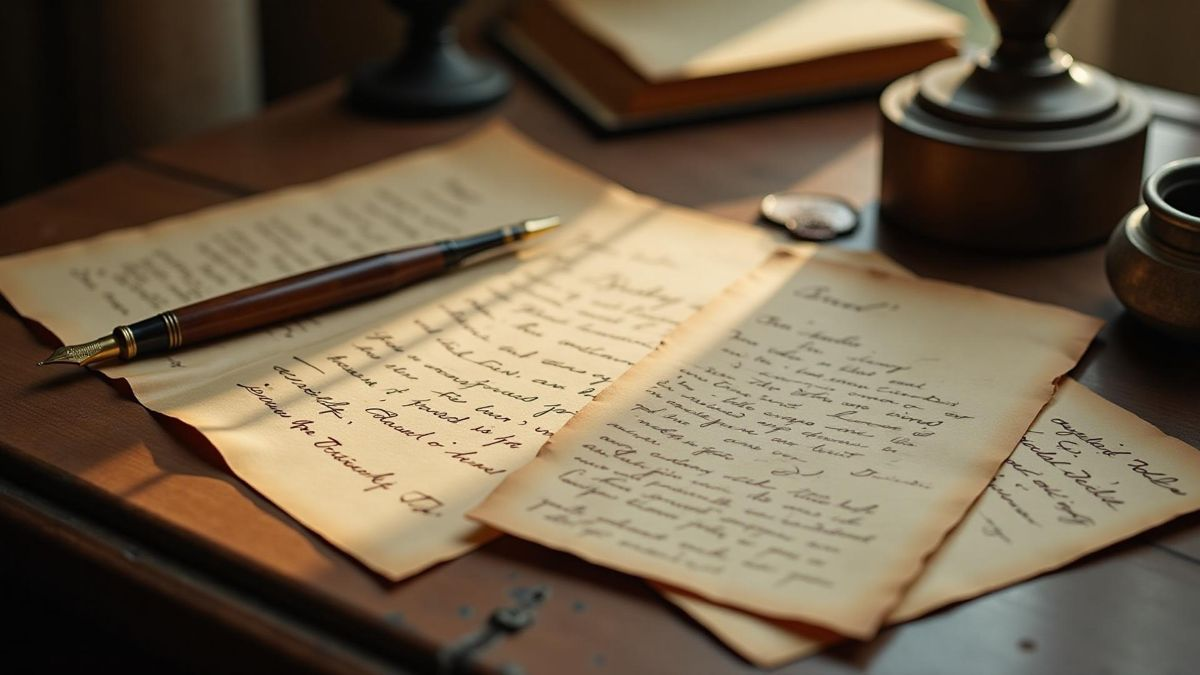
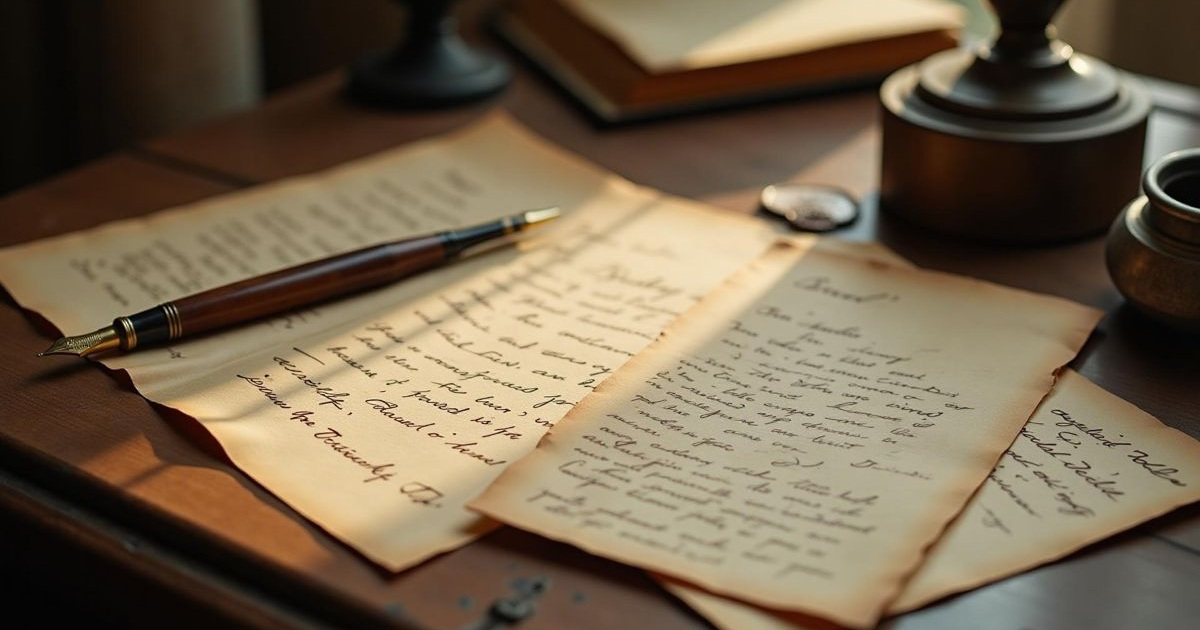
Update og-image

diff --git a/index.html b/index.html
@@ -26,9 +26,9 @@
     content="Upptäck en helt ny sorts läsupplevelse – en berättelse berättad i brevform. Två gånger i månaden landar ett nytt brev i din brevlåda, med vackra ord, tidstypiska detaljer och känslan av att öppna något unikt bara för dig." />
   <meta property="og:type" content="website" />
   <meta property="og:url" content="https://www.brevlycka.se" />
-  <meta property="og:image" content="https://www.brevlycka.se/og-image.jpg" />
+  <meta property="og:image" content="https://www.brevlycka.se/og-image.jpg?v=1" />
   <meta property="og:image:width" content="1200" />
-  <meta property="og:image:height" content="675" />
+  <meta property="og:image:height" content="630" />
   <meta property="og:locale" content="sv_SE" />
   <meta property="og:site_name" content="Brevlycka" />
 
@@ -37,7 +37,7 @@
   <meta name="twitter:title" content="Brevlycka - Upplev magin i historier som växer fram genom omsorgsfulla brev" />
   <meta name="twitter:description"
     content="Upptäck en helt ny sorts läsupplevelse – en berättelse berättad i brevform. Två gånger i månaden landar ett nytt brev i din brevlåda, med vackra ord, tidstypiska detaljer och känslan av att öppna något unikt bara för dig." />
-  <meta name="twitter:image" content="https://www.brevlycka.se/og-image.jpg" />
+  <meta name="twitter:image" content="https://www.brevlycka.se/og-image.jpg?v=1" />
 </head>
 
 <body>
